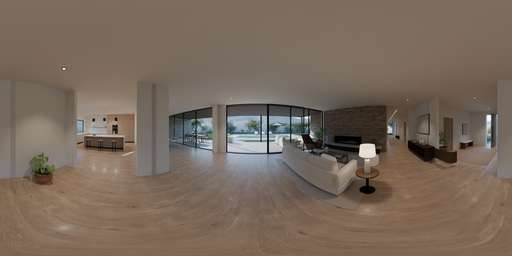
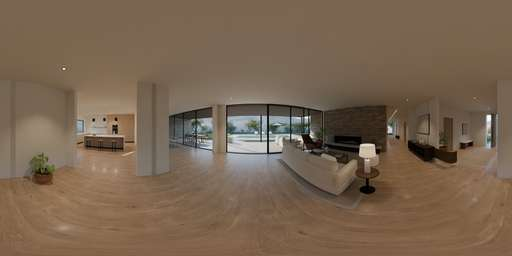
chore(tours): renders finales de la demo y validación de hotspots
Pasada final de Blender (25/25 hotspots medidos, error máx. 0,198°) y vista inicial de la galería
que encuadra la piscina sin la columna. Hotspots sin cambios.

Changed region(s): [[0.625, 0.5625, 0.75, 0.8438], [0.5625, 0.6562, 0.5938, 0.7188], [0.5312, 0.625, 0.5625, 0.6562]]

diff --git a/docs/TOUR_DEMO_VALIDATION.md b/docs/TOUR_DEMO_VALIDATION.md
@@ -1,0 +1,113 @@
+# Validación de ángulos y geometría — Residencia Demo 360°
+
+Convención verificada (Photo Sphere Viewer): radianes; `yaw` 0 = centro horizontal de la imagen, positivo hacia la derecha (x = W·(0.5 + yaw/2π)); `pitch` positivo hacia arriba (y = H·(0.5 − pitch/π)).
+
+Todos los panoramas están orientados con el **centro de la imagen hacia el norte** del modelo (arriba en `plano.svg`); por lo tanto `yaw` equivale al rumbo horario desde el norte del plano (derecha = este).
+
+## Método
+
+1. Para cada hotspot se toma un punto 3D real en el modelo (centro de la abertura o del objeto señalado; en los de navegación la altura se elige para un pitch de −0,17 a −0,36 rad según la distancia).
+2. `yaw`/`pitch` se calculan desde la posición de cámara (altura 1,55 m) con `atan2(dx, dy)` y `atan2(dz, dist_horizontal)`.
+3. Se renderiza con Cycles un panorama de prueba 2048×1024 (cámara equirectangular, latitud −90..90, longitud −180..180) con la escena sin luz y una esfera emisiva de color distinto en cada punto (radio ≈ 0,55° angulares, invisible a rayos difusos/reflejos para que no aparezca reflejada), más 8 esferas blancas a 0,5 m de la cámara y a su misma altura (horizonte).
+4. Se detectan los píxeles de cada color (clasificación por tono en sRGB + componente conexa mayor, promedio circular en x para tolerar la costura) y se convierte el centroide a yaw/pitch con la convención de arriba.
+5. Error = distancia angular entre la dirección esperada y la medida. Tolerancia exigida: ≤ 1,5°.
+
+**Error máximo: 0.198°** sobre 25 hotspots (0 sin detectar).
+
+## Hotspots
+
+| Escena | Tipo | Hotspot | yaw esperado | pitch esperado | x,y esperado (px) | yaw medido | pitch medido | x,y medido (px) | error (°) |
+|---|---|---|---:|---:|---:|---:|---:|---:|---:|
+| entrada | scene | Ir al living | 0.0000 | -0.3410 | 1024.0, 623.1 | 0.0001 | -0.3413 | 1024.0, 623.2 | 0.019 |
+| entrada | info | Puerta pivotante | 3.1416 | -0.0997 | 2048.0, 544.5 | 3.1415 | -0.0994 | 2048.0, 544.4 | 0.017 |
+| living | scene | Volver a la entrada | 2.5088 | -0.3266 | 1841.8, 618.5 | 2.5087 | -0.3264 | 1841.7, 618.4 | 0.017 |
+| living | scene | Ir a la cocina | -1.8797 | -0.3403 | 411.3, 622.9 | -1.8795 | -0.3404 | 411.4, 623.0 | 0.014 |
+| living | scene | Ir al comedor | -0.7071 | -0.2917 | 793.5, 607.1 | -0.7072 | -0.2915 | 793.5, 607.0 | 0.015 |
+| living | scene | Ir al pasillo | 1.7460 | -0.2022 | 1593.1, 577.9 | 1.7459 | -0.2016 | 1593.1, 577.7 | 0.033 |
+| living | scene | Salir a la galería | -0.1153 | -0.2425 | 986.4, 591.1 | -0.1150 | -0.2426 | 986.5, 591.1 | 0.014 |
+| living | info | Hogar a leña | 1.1462 | -0.1148 | 1397.6, 549.4 | 1.1461 | -0.1164 | 1397.6, 549.9 | 0.089 |
+| living | info | Vista al jardín | 0.7352 | 0.0552 | 1263.6, 494.0 | 0.7345 | 0.0549 | 1263.4, 494.1 | 0.044 |
+| cocina | scene | Volver al living | 0.4860 | -0.3179 | 1182.4, 615.6 | 0.4858 | -0.3185 | 1182.3, 615.8 | 0.036 |
+| cocina | info | Isla de cocina | -1.1240 | -0.2217 | 657.6, 584.3 | -1.1237 | -0.2183 | 657.7, 583.2 | 0.198 |
+| comedor | scene | Volver al living | 0.9576 | -0.3600 | 1336.1, 629.3 | 0.9576 | -0.3603 | 1336.1, 629.4 | 0.016 |
+| comedor | info | Mesa para seis | -1.3143 | -0.2185 | 595.6, 583.2 | -1.3144 | -0.2180 | 595.6, 583.1 | 0.026 |
+| pasillo | scene | Volver al living | -1.5708 | -0.3431 | 512.0, 623.8 | -1.5708 | -0.3428 | 512.0, 623.7 | 0.020 |
+| pasillo | scene | Suite principal | 1.2661 | -0.2685 | 1436.7, 599.5 | 1.2664 | -0.2684 | 1436.8, 599.5 | 0.015 |
+| dormitorio | scene | Volver al pasillo | 2.8181 | -0.2552 | 1942.6, 595.2 | 2.8177 | -0.2552 | 1942.4, 595.2 | 0.022 |
+| dormitorio | scene | Ir al baño | 2.1094 | -0.3436 | 1711.6, 624.0 | 2.1095 | -0.3429 | 1711.6, 623.8 | 0.042 |
+| dormitorio | info | Vista al jardín | -0.5934 | 0.0193 | 830.6, 505.7 | -0.5934 | 0.0191 | 830.6, 505.8 | 0.013 |
+| bano | scene | Volver a la suite | -1.7879 | -0.3600 | 441.2, 629.3 | -1.7874 | -0.3590 | 441.4, 629.0 | 0.064 |
+| bano | info | Bañera exenta | 0.2285 | -0.3987 | 1098.5, 642.0 | 0.2285 | -0.3989 | 1098.5, 642.0 | 0.007 |
+| galeria | scene | Volver al living | 2.8906 | -0.3594 | 1966.2, 629.2 | 2.8913 | -0.3599 | 1966.4, 629.3 | 0.048 |
+| galeria | scene | Ir a la piscina | -0.5296 | -0.3154 | 851.4, 614.8 | -0.5296 | -0.3133 | 851.4, 614.1 | 0.119 |
+| galeria | info | Galería cubierta | 1.5592 | -0.1839 | 1532.2, 572.0 | 1.5596 | -0.1838 | 1532.4, 571.9 | 0.026 |
+| piscina | scene | Volver a la galería | 2.2823 | -0.3273 | 1767.9, 618.7 | 2.2820 | -0.3277 | 1767.8, 618.8 | 0.023 |
+| piscina | info | Solárium | 0.7293 | -0.1158 | 1261.7, 549.8 | 0.7295 | -0.1152 | 1261.8, 549.6 | 0.038 |
+
+## Horizonte
+
+Desvío vertical máximo del centroide de las 8 esferas de horizonte respecto de y = H/2 (en grados):
+
+| Escena | esferas detectadas | desvío máx (°) |
+|---|---:|---:|
+| entrada | 8 | 0.028 |
+| living | 8 | 0.028 |
+| cocina | 8 | 0.028 |
+| comedor | 8 | 0.028 |
+| pasillo | 8 | 0.028 |
+| dormitorio | 8 | 0.028 |
+| bano | 8 | 0.028 |
+| galeria | 8 | 0.028 |
+| piscina | 8 | 0.028 |
+
+La cámara se coloca siempre nivelada (rotación X = 90°, sin roll), por lo que el horizonte es recto y las verticales convergen solo en los polos, como en cualquier equirectangular.
+
+## Imágenes finales: proporción y costura
+
+Costura = diferencia media absoluta de luminancia (0–255) entre la primera y la última columna; referencia = misma medida entre dos columnas contiguas en el centro de la imagen.
+
+| Escena | tamaño | 2:1 | costura (col. W−1 ↔ 0) | ref. centro | ref. col. 0 ↔ 1 |
+|---|---|---|---:|---:|---:|
+| entrada | 4096×2048 | sí | 2.10 | 1.43 | 1.02 |
+| living | 4096×2048 | sí | 1.63 | 1.60 | 0.85 |
+| cocina | 4096×2048 | sí | 26.58 | 1.40 | 7.77 |
+| comedor | 4096×2048 | sí | 2.04 | 1.46 | 1.08 |
+| pasillo | 4096×2048 | sí | 2.47 | 0.70 | 1.45 |
+| dormitorio | 4096×2048 | sí | 6.93 | 2.27 | 0.72 |
+| bano | 4096×2048 | sí | 1.81 | 0.89 | 0.70 |
+| galeria | 4096×2048 | sí | 1.45 | 1.21 | 0.51 |
+| piscina | 4096×2048 | sí | 3.04 | 0.56 | 1.49 |
+
+Nota: en `cocina` la costura cae exactamente sobre el marco negro de la ventana de la mesada (por eso también la diferencia entre las columnas 0 y 1 es alta). Se verificó visualmente uniendo los bordes derecho e izquierdo: la imagen es continua. Cycles genera la proyección equirectangular completa (−180..180°), así que no hay costura geométrica.
+
+## Posición en el plano
+
+`plan.x`/`plan.y` se obtienen de la posición mundo de la cámara con la misma transformación usada para dibujar `plano.svg` (1 m = 10 unidades, norte arriba). Comprobación: el punto cae dentro del polígono `room-{slug}`.
+
+| Escena | cámara (m) | plan.x | plan.y | punto SVG | dentro del ambiente |
+|---|---|---:|---:|---|---|
+| entrada | 12.00, 2.05 | 0.4245 | 0.8731 | 126.5, 254.5 | sí |
+| living | 10.35, 6.75 | 0.3691 | 0.7118 | 110.0, 207.5 | sí |
+| cocina | 6.60, 3.35 | 0.2433 | 0.8285 | 72.5, 241.5 | sí |
+| comedor | 6.65, 8.55 | 0.2450 | 0.6501 | 73.0, 189.5 | sí |
+| pasillo | 18.40, 5.75 | 0.6393 | 0.7461 | 190.5, 217.5 | sí |
+| dormitorio | 20.95, 11.25 | 0.7248 | 0.5575 | 216.0, 162.5 | sí |
+| bano | 24.70, 10.40 | 0.8507 | 0.5866 | 253.5, 171.0 | sí |
+| galeria | 9.30, 13.45 | 0.3339 | 0.4820 | 99.5, 140.5 | sí |
+| piscina | 5.70, 17.95 | 0.2131 | 0.3276 | 63.5, 95.5 | sí |
+
+## Distancia mínima de cámara a paredes y muebles
+
+Medida con ray casting horizontal en 72 direcciones a alturas 0,1–2,9 m sobre la geometría evaluada del .blend.
+
+| Escena | distancia mínima (m) | objeto más cercano |
+|---|---:|---|
+| entrada | 1.27 | w0o0_leaf |
+| living | 1.36 | liv_sofa_backframe |
+| cocina | 1.05 | k_low_s_f16 |
+| comedor | 1.04 | wall12_s1 |
+| pasillo | 1.18 | wall15_s0 |
+| dormitorio | 1.62 | b_bench_r |
+| bano | 1.15 | w17o0_leaf |
+| galeria | 1.98 | gal_planter0 |
+| piscina | 3.11 | gal_planter0 |

diff --git a/docs/VIRTUAL_TOURS.md b/docs/VIRTUAL_TOURS.md
@@ -7,6 +7,8 @@ sobre una propiedad **ficticia** (`/demo/tour-360`). Guía para quien captura la
 
 ```
 public/tours/demo/residencia/          assets estáticos de la demo (manifest.json, 9 panorámicas, previews, miniaturas, plano.svg, cover.jpg)
+docs/TOUR_DEMO_CREDITS.md              créditos CC0 (Poly Haven) de los renders 3D de la demo
+docs/TOUR_DEMO_VALIDATION.md           validación de ángulos de hotspots contra el render (error máx. 0,198°)
 scripts/seed-demo-tour.ts              pnpm seed:demo-tour → carga/actualiza la demo desde el manifiesto (idempotente)
 scripts/tours/demo-placeholders.ts     genera placeholders válidos desde el manifiesto (no pisa archivos sin --force)
 
